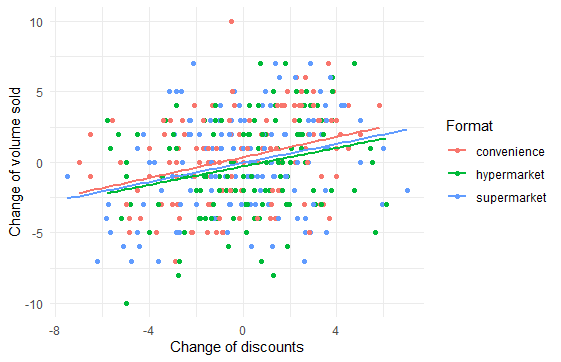
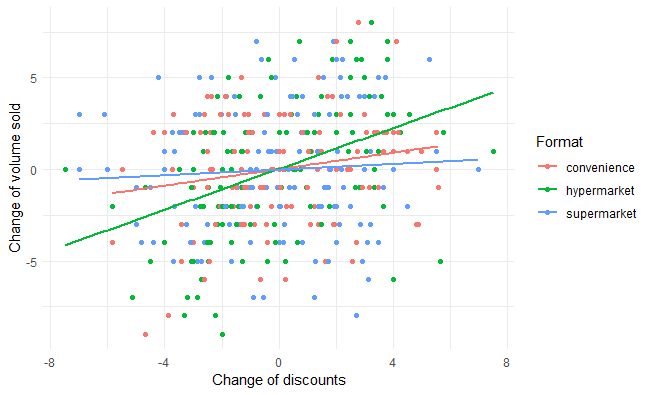
Updated results after lag variables are recalculated

diff --git a/README.md b/README.md
@@ -163,9 +163,10 @@ df_bybrand[, depth := avgdiscount/avgregprice]
       df_own = df_own[df_competitorinfo, on = "week_nr"]
       
       # Add lagged variables
+      df_own <- df_own[order(week_nr)] #Make sure that week_nr is ordered correctly before applying the lag
       lag_vars = c("totalvolume", "totalvalue", "LL", "avgfinalprice", "avgregprice", "avgdiscount", "avgcompLL", "avgcompfinalprice", "avgcompregprice", "avgcompdiscount")
       for (var in lag_vars) {
-        df_own[, (paste0(var, "1")) := shift(get(var), 1, type = "lag"), by = brand]
+        df_own[, paste0(var, "1") := shift(get(var), 1, type = "lag"), by = .(brand, format)]
       }
       
       df_own <- na.omit(df_own)
@@ -463,17 +464,18 @@ summary(fixedSecondStageLS)
 
 | Variable                 | Coefficient   |
 |--------------------------|---------------|
-| Hypermarket        | -18.194 (10.146) |
-| Supermarket        | 2.529 (11.054)  |
-| BrandDiscountDepth    | 4.816 (4.799)    |
-| BrandDiscountBreadth   | 1.142 (1.685)    |
-| log(frequency)           | 10.446 (77.705) |
+| Hypermarket        | -19.1804  (12.3323) |
+| Supermarket        | 5.1736    (13.3060)  |
+| BrandDiscountDepth    | 5.9182     (5.8236)   |
+| BrandDiscountBreadth   | 0.5242     (2.0421)    |
+| log(frequency)           | 27.3394    (94.4796) |
 | Private Label                      | -8.750 (6.873)   |
-| Constant                 | -162.956 (359.081) |
+| Constant                 | -8.5414     (8.3549) |
 
 **Note:**  
 *p<0.1; **p<0.05; ***p<0.01
 
 * E.g. supermarket seems to be more effective in term of offering discounts compared to convenience store (and hypermarket)
+* E.g. Brand that offers high discounts seem to be more effective
 * None of these factors are significant
 
